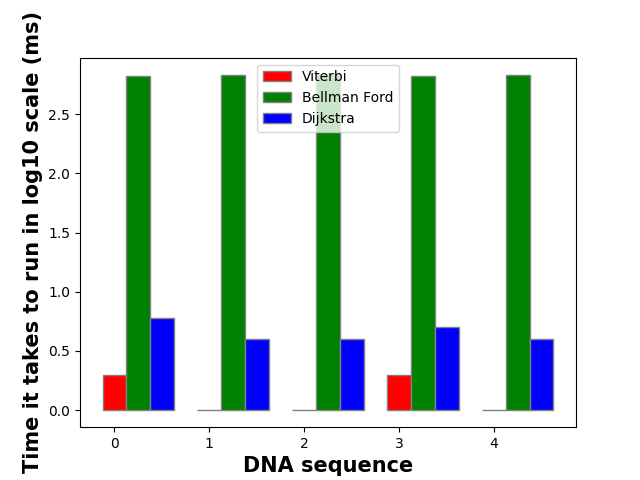
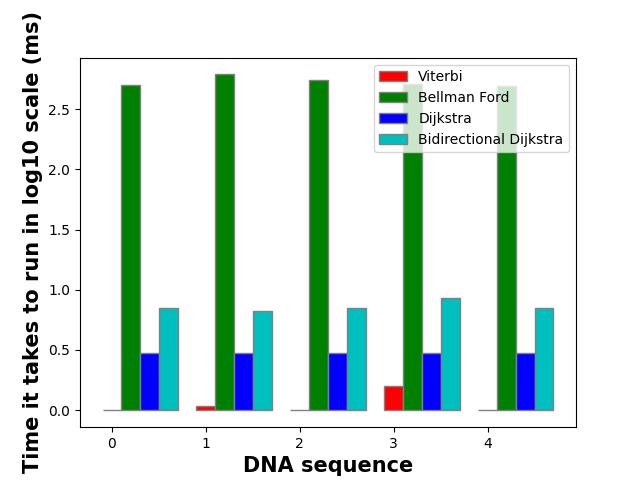
Generated all figures

diff --git a/main.py b/main.py
@@ -10,87 +10,99 @@ import matplotlib.pyplot as plt
 
 def main():
     testing.testRunTime()
-    # d = {
-    #     'Viterbi': testing.viterbiTime,
-    #     'Bellman': testing.bellmanTime,
-    #     'Dijkstra': testing.dijkstraTime
-    # }
-    # df = pd.DataFrame(data=d)
-    # d2 = {
-    #     'Viterbi': [10 ** x for x in testing.viterbiTime],
-    #     'Bellman': [10 ** x for x in testing.bellmanTime],
-    #     'Dijkstra': [10 ** x for x in testing.dijkstraTime]
-    # }
-    # df2 = pd.DataFrame(data=d2)
-    # d1 = {
-    #     'Viterbi': testing.viterbiMem,
-    #     'Bellman': testing.bellmanMem,
-    #     'Dijkstra': testing.dijkstraMem
-    # }
-    # df1 = pd.DataFrame(data=d1)
-    #
-    #
-    # xaxis = [i for i in range(len(testing.viterbiTime))]
-    # barWidth = 0.25
-    # br1 = np.arange(len(testing.viterbiTime))
-    # br2 = [x + barWidth for x in br1]
-    # br3 = [x + barWidth for x in br2]
-    # plt.bar(br1, testing.viterbiTime, color ='r', width = barWidth,
-    #         edgecolor ='grey', label ='Viterbi')
-    # plt.bar(br2, testing.bellmanTime, color ='g', width = barWidth,
-    #         edgecolor ='grey', label ='Bellman Ford')
-    # plt.bar(br3, testing.dijkstraTime, color ='b', width = barWidth,
-    #         edgecolor ='grey', label ='Dijkstra')
-    # plt.xticks(xaxis)
-    # plt.xlabel('DNA sequence', fontweight ='bold', fontsize = 15)
-    # plt.ylabel('Time it takes to run in log10 scale (ms)', fontweight='bold', fontsize=15)
-    # plt.legend()
-    # # plt.savefig('Run_Time.png')
-    #
-    # plt.clf()
-    # plt.bar(br1, testing.viterbiMem, color='r', width=barWidth,
-    #         edgecolor='grey', label='Viterbi')
-    # plt.bar(br2, testing.bellmanMem, color='g', width=barWidth,
-    #         edgecolor='grey', label='Bellman Ford')
-    # plt.bar(br3, testing.dijkstraMem, color='b', width=barWidth,
-    #         edgecolor='grey', label='Dijkstra')
-    # plt.xticks(xaxis)
-    # plt.xlabel('DNA sequence', fontweight='bold', fontsize=15)
-    # plt.ylabel('Peak Memory Usage (MB)', fontweight='bold', fontsize=15)
-    # # plt.savefig('Memory_Usage.png')
+    d = {
+        'Viterbi': testing.viterbiTime,
+        'Bellman': testing.bellmanTime,
+        'Dijkstra': testing.dijkstraTime,
+        'Bidirection Dijkstra': testing.bidijkstraTime
+    }
+    df = pd.DataFrame(data=d)
+    d2 = {
+        'Viterbi': [10 ** x for x in testing.viterbiTime],
+        'Bellman': [10 ** x for x in testing.bellmanTime],
+        'Dijkstra': [10 ** x for x in testing.dijkstraTime],
+        'Bidirection Dijkstra': [10 ** x for x in testing.bidijkstraTime]
+    }
+    df2 = pd.DataFrame(data=d2)
+    d1 = {
+        'Viterbi': testing.viterbiMem,
+        'Bellman': testing.bellmanMem,
+        'Dijkstra': testing.dijkstraMem,
+        'Bidirection Dijkstra': testing.bidijkstraMem
+    }
+    df1 = pd.DataFrame(data=d1)
+
+
+    xaxis = [i for i in range(len(testing.viterbiTime))]
+    barWidth = 0.2
+    br1 = np.arange(len(testing.viterbiTime))
+    br2 = [x + barWidth for x in br1]
+    br3 = [x + barWidth for x in br2]
+    br4 = [x + barWidth for x in br3]
+    plt.bar(br1, testing.viterbiTime, color ='r', width = barWidth,
+            edgecolor ='grey', label ='Viterbi')
+    plt.bar(br2, testing.bellmanTime, color ='g', width = barWidth,
+            edgecolor ='grey', label ='Bellman Ford')
+    plt.bar(br3, testing.dijkstraTime, color ='b', width = barWidth,
+            edgecolor ='grey', label ='Dijkstra')
+    plt.bar(br4, testing.bidijkstraTime, color='c', width=barWidth,
+            edgecolor='grey', label='Bidirectional Dijkstra')
+    plt.xticks(xaxis)
+    plt.xlabel('DNA sequence', fontweight ='bold', fontsize = 15)
+    plt.ylabel('Time it takes to run in log10 scale (ms)', fontweight='bold', fontsize=15)
+    plt.legend()
+    plt.savefig('Run_Time.png')
+
+    plt.clf()
+    plt.bar(br1, testing.viterbiMem, color='r', width=barWidth,
+            edgecolor='grey', label='Viterbi')
+    plt.bar(br2, testing.bellmanMem, color='g', width=barWidth,
+            edgecolor='grey', label='Bellman Ford')
+    plt.bar(br3, testing.dijkstraMem, color='b', width=barWidth,
+            edgecolor='grey', label='Dijkstra')
+    plt.bar(br4, testing.bidijkstraMem, color='c', width=barWidth,
+            edgecolor='grey', label='Bidirectional Dijkstra')
+    plt.xticks(xaxis)
+    plt.xlabel('DNA sequence', fontweight='bold', fontsize=15)
+    plt.ylabel('Peak Memory Usage (MB)', fontweight='bold', fontsize=15)
+    plt.legend()
+    plt.savefig('Memory_Usage.png')
 
     xaxis = [i for i in range(len(testing.realVTime))]
     barWidth = 0.25
     br1 = np.arange(len(testing.realVTime))
     br2 = [x + barWidth for x in br1]
     br3 = [x + barWidth for x in br2]
+    br4 = [x + barWidth for x in br3]
     plt.clf()
     plt.bar(br1, testing.realVTime, color='r', width=barWidth,
             edgecolor='grey', label = 'Viterbi')
-    plt.bar(br2, testing.realBTime, color='g', width=barWidth,
-            edgecolor='grey', label='Bellman Ford')
-    plt.bar(br3, testing.realDTime, color='b', width=barWidth,
+    plt.bar(br2, testing.realDTime, color='b', width=barWidth,
             edgecolor='grey', label='Dijktra')
+    plt.bar(br3, testing.realBiDTime, color='c', width=barWidth,
+            edgecolor='grey', label='Bidirectional Dijktra')
     plt.xticks(xaxis)
     plt.xlabel('Real DNA sequence', fontweight='bold', fontsize=15)
     plt.ylabel('Time it takes to run (ms)', fontweight='bold', fontsize=15)
+    plt.legend()
     plt.savefig('Real_Run_Time.png')
 
     plt.clf()
     plt.bar(br1, testing.realVMem, color='r', width=barWidth,
             edgecolor='grey', label='Viterbi')
-    plt.bar(br2, testing.realBMem, color='g', width=barWidth,
-            edgecolor='grey', label='Bellman Ford')
-    plt.bar(br3, testing.realDMem, color='b', width=barWidth,
+    plt.bar(br2, testing.realDMem, color='b', width=barWidth,
             edgecolor='grey', label='Dijktra')
+    plt.bar(br3, testing.realBiDMem, color='c', width=barWidth,
+            edgecolor='grey', label='Bidirectional Dijktra')
     plt.xticks(xaxis)
     plt.xlabel('Real DNA sequence', fontweight='bold', fontsize=15)
     plt.ylabel('Peak Memory Usage (MB)', fontweight='bold', fontsize=15)
+    plt.legend()
     plt.savefig('Real_Memory_Usage.png')
 
-    # print(df)
-    # print(df1)
-    # print(df2)
+    print(df)
+    print(df1)
+    print(df2)
 
 
 if __name__ == "__main__":

diff --git a/testing.py b/testing.py
@@ -2,7 +2,7 @@ import numpy as np
 import time
 import math
 import bellman
-import bidijkstra
+import bidirecdijkstra
 import dijkstra
 import viterbi
 import tracemalloc
@@ -128,14 +128,13 @@ def generateDijkstraTime():
 def generateBidijkstraTime():
     for file in files:
         start_time = time.time_ns()
-        bidijkstra.BiDirectionalDijkstra()
-        a, b = bidijkstra.BiDirectionalDijkstra.dijkstra(file, transition_probabilities, emission_probabilities, initial_probabilities)
+        a, b = bidirecdijkstra.bidirectional_dijkstra(file, transition_probabilities, emission_probabilities, initial_probabilities)
         end_time = time.time_ns()
         time_elapsed = (end_time - start_time) / 1000000
-        dijkstraTime.append(math.log10(time_elapsed))
+        bidijkstraTime.append(math.log10(time_elapsed))
         tracemalloc.start()
-        a, b = dijkstra.dijkstra(file, transition_probabilities, emission_probabilities, initial_probabilities)
-        dijkstraMem.append(tracemalloc.get_traced_memory()[1] / (1024 * 1024))
+        a, b = bidirecdijkstra.bidirectional_dijkstra(file, transition_probabilities, emission_probabilities, initial_probabilities)
+        bidijkstraMem.append(tracemalloc.get_traced_memory()[1] / (1024 * 1024))
         tracemalloc.stop()
 
 
@@ -175,12 +174,22 @@ def generateRealSeqTime():
         realDMem.append(tracemalloc.get_traced_memory()[1] / (1024 * 1024))
         tracemalloc.stop()
         print(time_elapsed)
+        start_time = time.time_ns()
+        a, b = bidirecdijkstra.bidirectional_dijkstra(file, transition_probabilities, emission_probabilities, initial_probabilities)
+        end_time = time.time_ns()
+        time_elapsed = (end_time - start_time) / 1000000
+        realBiDTime.append(math.log10(time_elapsed))
+        tracemalloc.start()
+        a, b = bidirecdijkstra.bidirectional_dijkstra(file, transition_probabilities, emission_probabilities, initial_probabilities)
+        realBiDMem.append(tracemalloc.get_traced_memory()[1] / (1024 * 1024))
+        tracemalloc.stop()
+        print(time_elapsed)
 
 
 # Running all the algorithms
 def testRunTime():
-    # generateViterbiTime()
-    # generateBellmanTime()
-    # generateDijkstraTime()
+    generateViterbiTime()
+    generateBellmanTime()
+    generateDijkstraTime()
     generateBidijkstraTime()
-    # generateRealSeqTime()
+    generateRealSeqTime()
